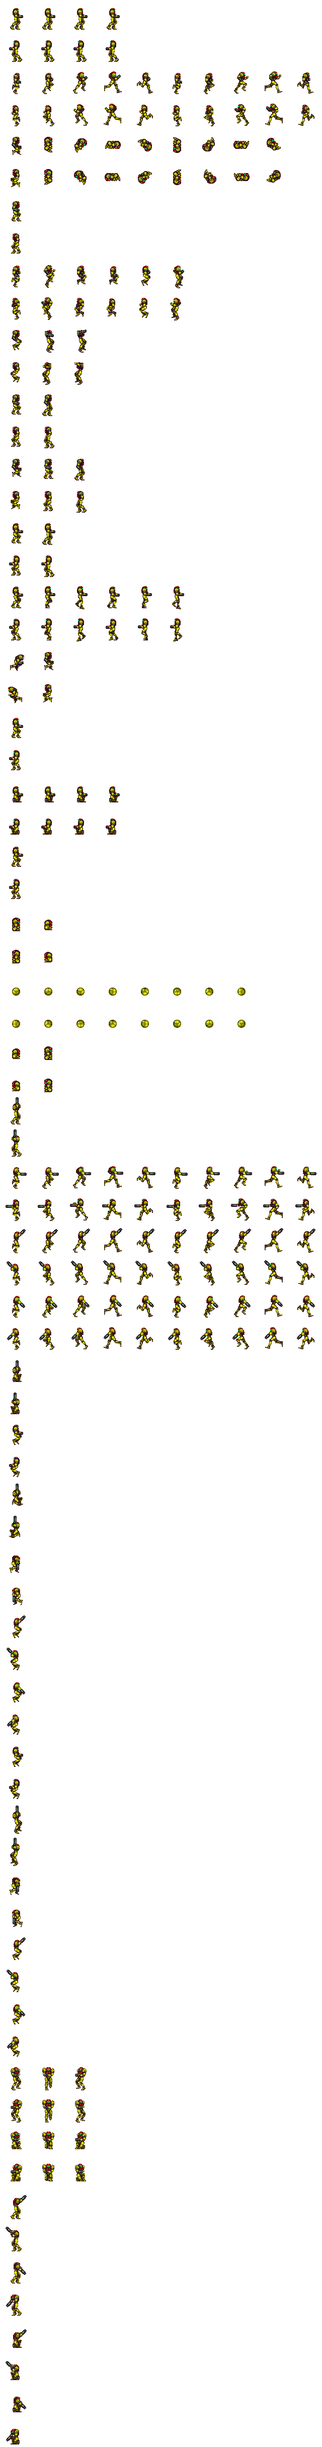
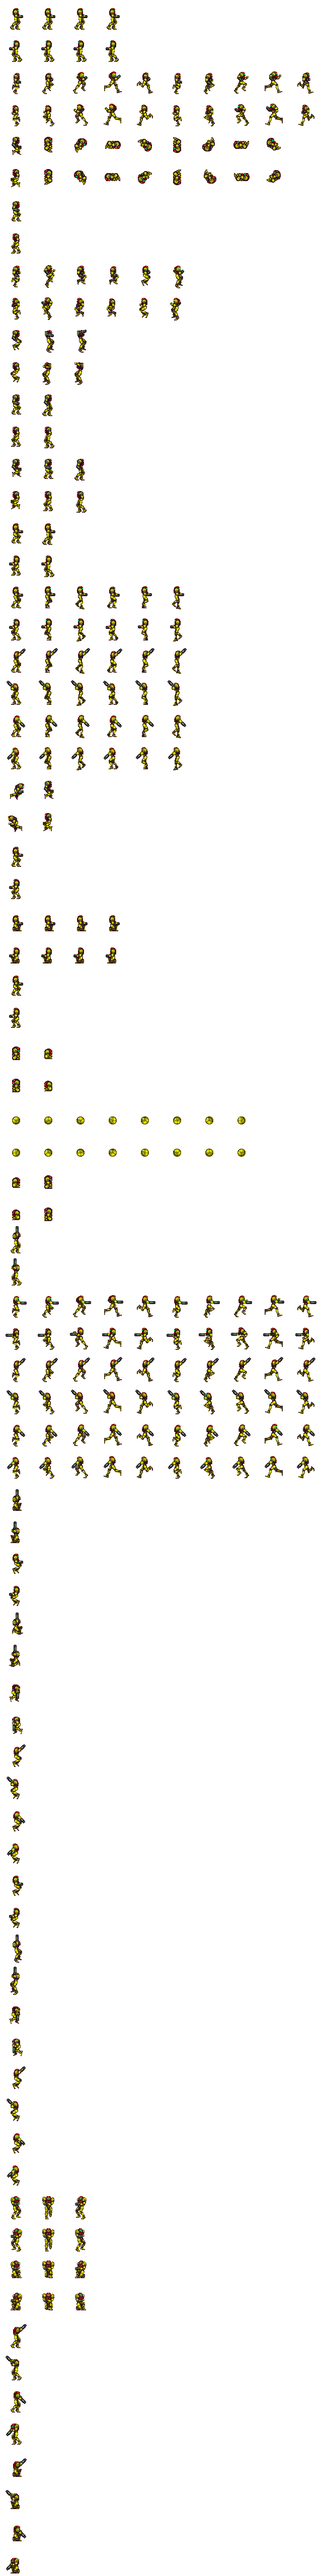
Etapa 3.3.6: moonwalk diagonal (poses 75-78)

diff --git a/tests/core_test.c b/tests/core_test.c
@@ -1110,6 +1110,30 @@ static void moonwalk(void) {
           assert(fell);
         }
     }
+    /* Diagonal moonwalk (3.3.6): poses 75-78 reuse the measured frontal speed and
+       cycle. Both aim inputs (up/down with direction, Y/Z) keep moonwalking, and
+       releasing the aim returns to the frontal strip without stopping. */
+    for (side = 0; side < 2; ++side) {
+        int direction = side ? 1 : -1, diagonal;
+        for (diagonal = 0; diagonal < 2; ++diagonal) {
+            reset(); floor_at(20);
+            mm_samus_init(&b, 200, 112); mm_tick(&world, &b, idle);
+            b.facing_left = side;
+            for (frame = 0; frame < 20; ++frame) {
+                MmInput in = {.axis = direction, .shoot_held = 1};
+                if (diagonal) in.aim_diagonal = diagonal < 2 ? (frame % 2 ? -1 : 1) : 0;
+                else in.aim_y = frame % 2 ? -1 : 1;
+                mm_tick(&world, &b, in);
+                assert(b.moonwalk_ticks && b.grounded && !b.crouching);
+                assert(b.aim == (diagonal ? (in.aim_diagonal < 0 ? MM_AIM_DIAG_UP : MM_AIM_DIAG_DOWN) :
+                    (in.aim_y < 0 ? MM_AIM_DIAG_UP : MM_AIM_DIAG_DOWN)));
+                assert((b.moonwalk_ticks - 1) / MM_MOONWALK_FRAME_TICKS == frame / MM_MOONWALK_FRAME_TICKS);
+                assert(b.x == 200 * MM_UNIT + direction * frame * MM_MOONWALK_SPEED);
+            }
+            mm_tick(&world, &b, (MmInput){.axis = direction, .shoot_held = 1});
+            assert(b.moonwalk_ticks && b.aim == MM_AIM_FORWARD);
+        }
+    }
     puts("PASS moonwalk: 110 archived displacements/frames both facings, stop, fire release, option and walls");
 }
 

diff --git a/src/core/world.c b/src/core/world.c
@@ -403,15 +403,15 @@ static void steer(MmBody *b, int direction, int run_held)
     b->vx = b->facing_left ? -moved : moved;
 }
 
-/* The original option is enabled for production Samus. This first slice covers frontal
-   grounded moonwalk; diagonal and jumping transitions still use the ordinary controls. */
+/* The original option is enabled for production Samus. Grounded moonwalk keeps the
+   measured frontal speed and cycle also when aiming diagonally (poses 75-78);
+   jumping transitions still use the ordinary controls. */
 static void steer_moonwalk(MmBody *b, int direction, MmInput input)
 {
     int previous = b->moonwalk_ticks, vx = b->vx;
     int facing = b->facing_left ? -1 : 1;
     int active = b->moonwalk_enabled && b->grounded && !b->jumped && !b->ball &&
-        !b->crouching && !b->turn && input.shoot_held && !input.aim_y &&
-        !input.aim_diagonal && direction == -facing;
+        !b->crouching && !b->turn && input.shoot_held && direction == -facing;
     if (active) {
         b->moonwalk_ticks = previous % (6 * MM_MOONWALK_FRAME_TICKS) + 1;
         b->vx = previous ? -facing * MM_MOONWALK_SPEED : 0;

diff --git a/tests/rom_smoke.c b/tests/rom_smoke.c
@@ -584,6 +584,18 @@ static int moonwalk(Game *g)
                 g->animation != PLAYER_ANIM_MOONWALK_R + side ||
                 g->sprite->frameInd != reference_moonwalk[frame][1]) failed = 1;
         }
+        /* Diagonal moonwalk (3.3.6): poses 75-78 keep the frontal cycle; Y/Z and
+           up/down with direction select the diagonal strips on screen. */
+        for (frame = 0; frame < 20; ++frame) {
+            MmInput in = {.axis = direction, .shoot_held = 1};
+            int row;
+            if (frame < 10) { in.aim_diagonal = -1; row = PLAYER_ANIM_MOONWALK_AIM_UP_R + side; }
+            else { in.aim_y = 1; row = PLAYER_ANIM_MOONWALK_AIM_DOWN_R + side; }
+            game_update(g, in);
+            SYS_doVBlankProcess();
+            if (!g->player.moonwalk_ticks || g->animation != row ||
+                g->sprite->frameInd != (g->player.moonwalk_ticks - 1) / MM_MOONWALK_FRAME_TICKS) failed = 1;
+        }
         game_update(g, (MmInput){.axis = direction}); SYS_doVBlankProcess();
         if (g->player.moonwalk_ticks || !g->player.turn_pose_ticks) failed = 1;
         idle(g, 15);

diff --git a/scripts/build_player_sheet.py b/scripts/build_player_sheet.py
@@ -36,7 +36,8 @@ GROUND_ROW = 58
 GROUNDED = {'STAND', 'WALK', 'LAND', 'SPIN_LAND', 'CROUCH_DOWN', 'CROUCH', 'STAND_UP',
             'MORPH', 'BALL', 'UNMORPH', 'AIM_UP', 'WALK_SHOOT', 'WALK_AIM_UP', 'WALK_AIM_DOWN',
             'CROUCH_AIM_UP', 'TURN', 'AIM_DIAG_UP', 'AIM_DIAG_DOWN',
-            'CROUCH_AIM_DIAG_UP', 'CROUCH_AIM_DIAG_DOWN', 'LAND_SHOOT', 'MOONWALK'}
+             'CROUCH_AIM_DIAG_UP', 'CROUCH_AIM_DIAG_DOWN', 'LAND_SHOOT', 'MOONWALK',
+             'MOONWALK_AIM_UP', 'MOONWALK_AIM_DOWN'}
 # Actions aligned frame by frame instead of as a whole. The extracted ball frames drift up and down by
 # a pixel from the sheet grid; a rolling ball must not bounce.
 ALIGN_EACH_FRAME = {'BALL'}
@@ -58,6 +59,9 @@ ANIMATIONS = [
     ('SPIN_LAND', 'A6', 'A7'),
     ('LAND_SHOOT', 'E6', 'E7'),
     ('MOONWALK', '4A', '49'),
+    # 3.3.6: labels name the facing, so the right row is 76/78 and the left 75/77.
+    ('MOONWALK_AIM_UP', '76', '75', 'DU'),
+    ('MOONWALK_AIM_DOWN', '78', '77', 'DD'),
     ('WALL_KICK', '83', '84'),
     ('CROUCH_DOWN', '35', '36'),
     ('CROUCH', '27', '28'),

diff --git a/inc/player_anim.h b/inc/player_anim.h
@@ -25,6 +25,10 @@ enum {
     PLAYER_ANIM_LAND_SHOOT_L, /* pose E7 */
     PLAYER_ANIM_MOONWALK_R, /* pose 4A */
     PLAYER_ANIM_MOONWALK_L, /* pose 49 */
+    PLAYER_ANIM_MOONWALK_AIM_UP_R, /* pose 76 */
+    PLAYER_ANIM_MOONWALK_AIM_UP_L, /* pose 75 */
+    PLAYER_ANIM_MOONWALK_AIM_DOWN_R, /* pose 78 */
+    PLAYER_ANIM_MOONWALK_AIM_DOWN_L, /* pose 77 */
     PLAYER_ANIM_WALL_KICK_R, /* pose 83 */
     PLAYER_ANIM_WALL_KICK_L, /* pose 84 */
     PLAYER_ANIM_CROUCH_DOWN_R, /* pose 35 */
@@ -106,6 +110,10 @@ static const signed char player_muzzle[PLAYER_ANIM_COUNT][2] = {
     {7, 21}, /* E7 */
     {32, 19}, /* 4A */
     {7, 19}, /* 49 */
+    {36, -1}, /* 76 */
+    {2, -1}, /* 75 */
+    {36, 25}, /* 78 */
+    {4, 25}, /* 77 */
     {34, 25}, /* 83 */
     {7, 18}, /* 84 */
     {32, 25}, /* 35 */

diff --git a/src/game.c b/src/game.c
@@ -91,7 +91,10 @@ static u16 player_row(const MmBody *p)
     };
     u16 side = p->facing_left ? 1 : 0, row;
     bool up = p->aim == MM_AIM_UP || p->aim == MM_AIM_DIAG_UP;
-    if (p->moonwalk_ticks) return PLAYER_ANIM_MOONWALK_R + side;
+    if (p->moonwalk_ticks)
+        return (p->aim == MM_AIM_DIAG_UP ? PLAYER_ANIM_MOONWALK_AIM_UP_R :
+                p->aim == MM_AIM_DIAG_DOWN ? PLAYER_ANIM_MOONWALK_AIM_DOWN_R :
+                PLAYER_ANIM_MOONWALK_R) + side;
     if (p->pose == MM_POSE_LAND && p->aim == MM_AIM_FORWARD && p->shoot_pose_timer)
         return PLAYER_ANIM_LAND_SHOOT_R + side;
     /* Turn strips are indexed by the OLD facing. Aim/shoot keep their cannon pose,

diff --git a/docs/HISTORICO.md b/docs/HISTORICO.md
@@ -263,6 +263,39 @@ só na ROM de teste. **Limites:** diagonais e transições BF/C0 de salto/virada
 continuam pendentes; entrada com velocidade prévia, rampas e outras combinações
 não foram comprovadas pela amostra de chão plano.
 
+**3.3.6 Moonwalk diagonal no chão** ✅ (2026-11-05). As poses 75–78 (moonwalk mirando para cima/baixo em
+diagonal) entram na folha como `MOONWALK_AIM_UP` (76/75) e `MOONWALK_AIM_DOWN`
+(78/77), com os mesmos seis quadros e o mesmo ciclo de 16 ticks do frontal. O
+`steer_moonwalk` aceita mira diagonal por qualquer um dos dois controles
+(cima/baixo com direção, ou Y/Z de seis botões); soltar a mira volta à tira
+frontal sem parar. O render escolhe a tira pela mira, com a boca do canhão
+gerada por pose. Host cobre os dois lados, as duas miras, a troca de mira sem
+parar e a volta ao frontal; o smoke confere as duas tiras diagonais e o quadro
+na ROM. Custo: quatro linhas na folha (24 desenhos de 64×64 na ROM), sem campo
+novo na struct do jogo e sem aumentar a reserva de VRAM (máximo da folha
+inalterado). **Limites:** velocidade e ciclo do diagonal reaproveitam a medida
+do frontal sem medição própria no original (o save state do Mesen não está
+nesta máquina); transições de salto/virada BF/C0/C1–C4 não têm arte extraída
+(não entram na folha) e continuam pendentes. Pouco HP, space jump e screw
+attack também continuam pendentes: space jump e screw dependem de upgrades
+(7.3) ainda não implementados, e pouco HP usa tiras `xx` sem número de pose na
+prancha, que o extrator não endereça por pose.
+
+**Ambiente SGDK (2026-11-05).** O Cygwin do SGDK parou de iniciar nesta máquina
+(`VirtualAlloc ... Win32 error 487`, `Couldn't reserve space for cygwin's heap`,
+também em `make --version` fora do projeto): o MSYS do SGDK quer reservar o heap
+em 0x60EA0000, endereço ocupado após uma mudança do Windows. Correção aplicada
+nesta máquina (fora do repositório): backup de `D:/apps/sgdk/bin/msys-1.0.dll.orig`
+e rebase 32-bit de todas as DLLs de `D:/apps/sgdk/bin` para 0x10000000 com o
+rebase do MSYS2 (`C:/msys64/usr/bin/rebase.exe -4 -b 0x10000000 -T lista.txt`).
+Além disso, o `sh` antigo segfaulta ao ser chamado pelo make antigo (fork com ASLR
+moderno); a build roda com `SHELL=C:/msys64/usr/bin/bash.exe` no make, e o
+padROM (`D:`) é feito à mão com `sizebnd.jar` + `finalize_rom.py`. Validação
+desta etapa: `scripts/test.ps1` completo no host, build `-SmokeTest` pela via
+acima e `SMOKE PASS` no BlastEm (acelerado, sem áudio, headless, 15,3 s,
+0 VInts perdidos, incluindo as verificações das tiras diagonais), e ROM padrão
+rebuildada em `out/rom.bin` (1.572.864 bytes, checksum 5B58).
+
 **Lacunas da prancha.**
 - A pose `16` (pulo parado, esquerda, mirando para cima) não tem faixa própria: são os quadros 2–3 da tira `15`.
 - A faixa da `69` diz "Facing left - aiming up-right", provável erro de digitação ("Facing right").

diff --git a/docs/PLANO.md b/docs/PLANO.md
@@ -35,18 +35,18 @@ reinício, drops, portas e HUD fiéis, sem quadros perdidos.
 
 **Próxima tarefa:**
 
-1. **3.3 Animações completas** — moonwalk diagonal e no salto, pouco HP, space jump, screw attack.
+1. **3.3 Animações completas** — moonwalk no salto (BF/C0 sem arte extraída), pouco HP, space jump e screw attack (dependem de upgrades da 7.3). Moonwalk diagonal (3.3.6) concluído em 2026-11-05.
 
 Fora do marco: a arte do drop de míssil e as tabelas de drop do original seguem provisórias (a energia já usa a orbe roxa original animada).
 
 ## Etapas pendentes
 
-Concluídas: fases 0, 1 e 2; 3.1, 3.2, 3.4; 4.1–4.3; 5.1–5.4; 6.0–6.5; 7.1.1; 8.1, 8.4 (B1).
+Concluídas: fases 0, 1 e 2; 3.1, 3.2, 3.4, 3.3.6 (moonwalk diagonal); 4.1–4.3; 5.1–5.4; 6.0–6.5; 7.1.1; 8.1, 8.4 (B1).
 Detalhes em `HISTORICO.md`.
 
 | # | Etapa | Falta | Teste |
 |---|-------|-------|-------|
-| 3.3 | Animações completas | Moonwalk diagonal e no salto, pouco HP, space jump, screw attack | Todas visíveis em sequência |
+| 3.3 | Animações completas | Moonwalk no salto (sem arte BF/C0), pouco HP, space jump, screw attack (diagonal feito) | Todas visíveis em sequência |
 | 3.5 | Orçamento de VRAM | Alocação automática / streaming dos tiles do sprite | `SPR_showVRAMUsage` dentro do orçamento |
 | 3.6 | Paletas da Samus | Varia/Gravity e ciclos (carga, speed booster, screw, dano), separando a barra do HUD da PAL2 | Ciclos sem trocar tiles |
 | 4.4 | Beams | Charge, ice, wave | Cada beam altera sprite e dano |

diff --git a/docs/BUGS.md b/docs/BUGS.md
@@ -11,5 +11,5 @@ Impressões de playtest do usuário também entram aqui.
 | B5 | baixa | Oclusão da Samus nas bordas dos túneis: sem captura de validação em Crateria 2, nas portas verticais e em todas as poses | 6.6 | `HISTORICO.md`, Fase 7 |
 | B6 | baixa | Portas do Landing Site sem sala de destino e portas verticais sem ponto de chegada não fazem nada | 6.6 | `HISTORICO.md`, 6.5 |
 | B7 | baixa | A Samus perde agachada/bola ao atravessar uma porta (reinicia em pé); conferir contra o original | 6.3 | `HISTORICO.md`, 6.3 |
-| B8 | média | No pulo giratório, alternar esquerda/direita troca a animação para o pulo comum; a troca de direção encerra o giro | 3.3 | Relato do usuário (2026-11-05), sem depuração |
+| B8 | média | No pulo giratório, alternar esquerda/direita troca a animação para o pulo comum; a troca de direção encerra o giro | 3.3 | Relato do usuário (2026-11-05); probe do núcleo (2026-11-05) alternando a cada tick mantém pose de giro e reversão como no `spin_reverse` — não reproduzido no núcleo, falta reproduzir na ROM em jogo |
 | B9 | baixa | Impressão de playtest (2026-11-05): a cor de um inimigo da área inicial parece diferente do original; conferir Zoomer/Geemer/Ripper em jogo contra o original, pois a arte é remapeada para a PAL1 da sala | 5.2 | Relato do usuário (2026-11-05) |

diff --git a/CHANGELOG.md b/CHANGELOG.md
@@ -10,6 +10,25 @@ O registro detalhado começa em 18/10/2026. A entrada anterior abaixo foi
 reconstituída do commit indicado; o histórico anterior completo permanece no Git
 (`git log`) e as entregas por etapa estão em [docs/PLANO.md](docs/PLANO.md).
 
+## 2026-11-05 17:15:00 −03:00 (America/Sao_Paulo) — Moonwalk diagonal (3.3.6)
+
+### Adicionado
+
+- Moonwalk mirando em diagonal no chão: poses 75–78 (para cima/baixo), com a
+  mesma velocidade e o mesmo ciclo do moonwalk frontal. Vale nos dois controles
+  (cima/baixo com direção, ou Y/Z); soltar a mira volta ao frontal sem parar.
+
+### Validação
+
+- `scripts/test.ps1` completo no host (núcleo com os dois lados, as duas miras
+  e a volta ao frontal), build `-SmokeTest` e smoke do BlastEm (`SMOKE PASS`,
+  acelerado, sem áudio, headless, incluindo as tiras diagonais na ROM).
+- ROM padrão rebuildada em `out/rom.bin` (1.572.864 bytes, checksum 5B58).
+- Ambiente: Cygwin do SGDK corrigido por rebase 32-bit das DLLs de
+  `D:/apps/sgdk/bin` (backup `msys-1.0.dll.orig`) e build com
+  `SHELL=C:/msys64/usr/bin/bash.exe`; detalhes em `docs/HISTORICO.md` (3.3.6).
+  Sem campo novo de RAM nem aumento de VRAM.
+
 ## 2026-11-05 16:48:00 −03:00 (America/Sao_Paulo) — Orbe de energia roxa (PAL0) no lugar da vermelha
 
 ### Corrigido

diff --git a/docs/SPRITES.md b/docs/SPRITES.md
@@ -412,6 +412,17 @@ dois sentidos. Sem nova medição para os testes rotineiros. Diagonais 75–78 e
 transições BF/C0/C1–C4 ainda não são usadas; salto e mira diagonal seguem os
 controles comuns. A entrada em movimento e as rampas precisam de cobertura.
 
+### Moonwalk diagonal (3.3.6)
+
+As tiras 76/75 (mira para cima em diagonal) e 78/77 (para baixo) entram como
+`MOONWALK_AIM_UP` e `MOONWALK_AIM_DOWN`, seis desenhos cada, com os pés
+alinhados na linha 58 como o frontal. Os rótulos da prancha nomeiam o lado de
+cada pose, então a linha da direita é 76/78 e a da esquerda 75/77 (o `+1` da
+esquerda vale como nas demais ações). O render usa `moonwalk_ticks` para o
+quadro `(ticks - 1) / 16`, o mesmo relógio do frontal, e a boca do canhão vem
+do primeiro quadro de cada tira (diagonais DU/DD). A reserva de tiles do sprite
+continua determinada pelo máximo da folha; nenhum sprite, paleta ou campo novo.
+
 ### Zoomer (5.2)
 
 `scripts/build_zoomer_sprite.py` remapeia `enemies_left_r00` para a PAL1 da

diff --git a/MEMORY.md b/MEMORY.md
@@ -11,3 +11,4 @@ Fatos operacionais duráveis que o código não mostra. Uma linha por fato.
 - O SGDK não tem `memcmp`/libc completa (`-fno-builtin`); compare buffers à mão.
 - No 68000, `*`, `/` e `%` de `int` (32 bits) por valor variável chamam a libgcc (~1.000 ciclos, ~2 linhas de varredura cada): evite-os em laços por quadro; o traçado do canhão custava ~8 linhas por passo por isso.
 - Para cronometrar trechos, leia `GET_VCOUNTER` dentro da área visível (linhas 0–223, sem VInt no meio); o contador repete 0xE5–0xEA no VBlank, então não meça através dele. Um quadro NTSC tem 262 linhas (~488 ciclos cada).
+- SGDK quebrou em 2026-11-05 (`Couldn't reserve space for cygwin's heap`, 0x60EA0000): as DLLs de `D:/apps/sgdk/bin` foram rebaseadas para 0x10000000 com `C:/msys64/usr/bin/rebase.exe -4` (backup `msys-1.0.dll.orig`), e o make antigo roda com `SHELL=C:/msys64/usr/bin/bash.exe` (o `sh` antigo segfaulta no fork sob ASLR moderno); pad ROM à mão com `sizebnd.jar` + `finalize_rom.py`.
